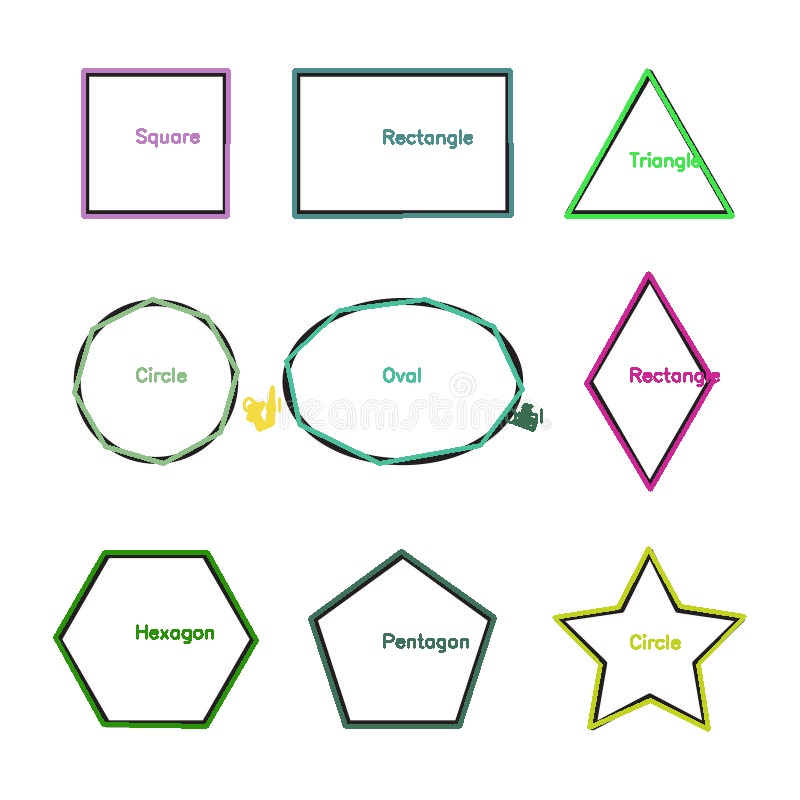
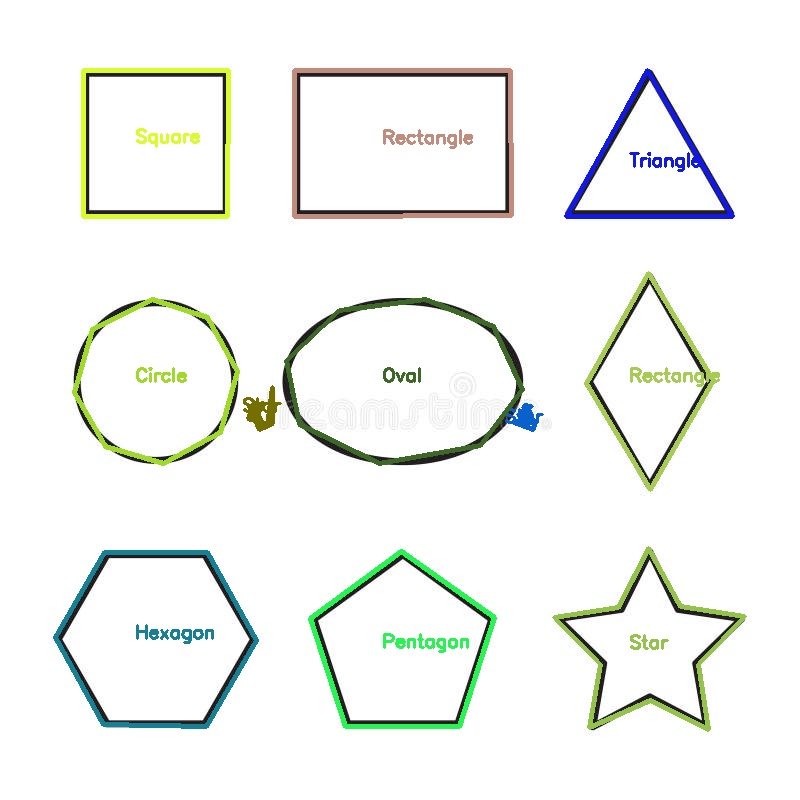
updates

diff --git a/app.py b/app.py
@@ -7,6 +7,7 @@ def get_shape_name(cnt, approx):
     sides = len(approx)
     area = cv2.contourArea(cnt)
     perimeter = cv2.arcLength(cnt, True)
+    circularity = 4 * np.pi * area / (perimeter * perimeter + 1e-5)
 
     if sides == 3:
         return "Triangle"
@@ -19,7 +20,11 @@ def get_shape_name(cnt, approx):
     elif sides == 6:
         return "Hexagon"
     else:
-        # Oval or Circle detection using ellipse
+        # 1⃣ Star detection first: non-convex + enough vertices + low circularity
+        if not cv2.isContourConvex(approx) and sides > 6 and circularity < 0.85:
+            return "Star"
+
+        # 2⃣ Circle or Oval detection using ellipse
         if len(cnt) >= 5:
             ellipse = cv2.fitEllipse(cnt)
             (center, axes, orientation) = ellipse
@@ -30,12 +35,7 @@ def get_shape_name(cnt, approx):
             else:
                 return "Oval"
 
-        # Star detection using convexity and circularity
-        circularity = 4 * np.pi * area / (perimeter * perimeter + 1e-5)
-        if not cv2.isContourConvex(approx) and circularity < 0.8:
-            return "Star"
-
-        # Fallback for irregular polygon
+        # 3⃣ Fallback for irregular polygon
         return "Polygon"
 
 
